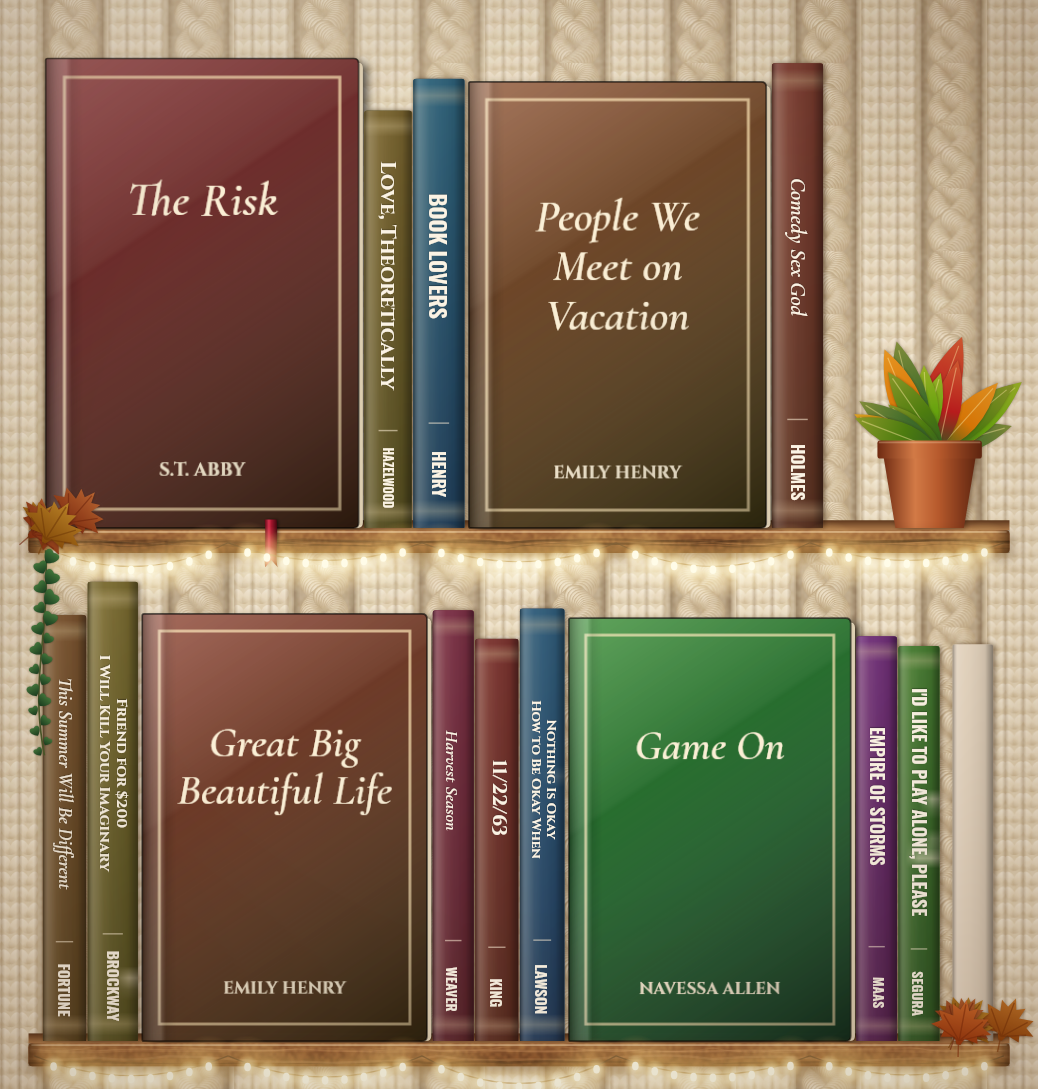
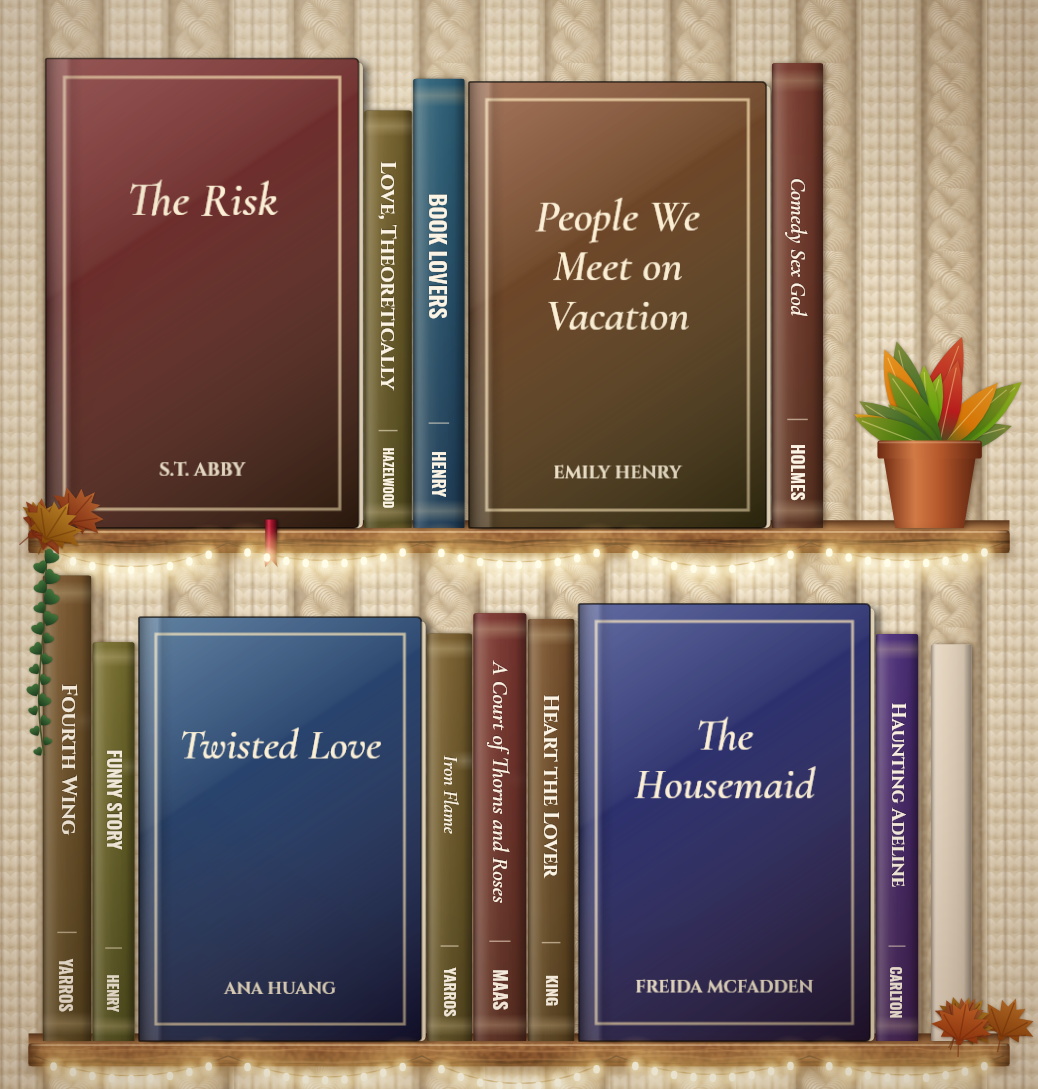
Show the Read and To-read shelves instead of Favorites
Large widgets get one physical shelf per Goodreads shelf (Read on top,
TBR below); small and medium show Read. The Read shelf is ordered by
date finished.

Claude-Session: https://claude.ai/code/session_01DFpaGPqchzARfTBeW4za7c

diff --git a/enchanted-library-widget/EnchantedLibrary.js b/enchanted-library-widget/EnchantedLibrary.js
@@ -18,8 +18,11 @@
 const CONFIG = {
   theme: "cozy",                     // "cozy", "rustic" or "enchanted" (see README)
   goodreadsUserId: "183463841",
-  readingShelf: "currently-reading", // shown face-out with a ribbon bookmark
-  spineShelf: "favorites",           // shown as spines
+  readingShelf: "currently-reading", // shown face-out with a ribbon bookmark ("" to skip)
+  shelves: [                         // Goodreads shelves to show, top to bottom
+    { shelf: "read", label: "Read" },    // newest first; the only shelf on small/medium widgets
+    { shelf: "to-read", label: "TBR" },  // the large widget's second shelf
+  ],
   libraryName: "My Library",         // enchanted: script lettering on the large widget ("" to hide)
   fillEmptySpace: true,              // pad shelves with untitled antique volumes
   showRose: true,                    // enchanted: the rose under glass
@@ -98,16 +101,18 @@ async function loadLibrary() {
     try { cached = JSON.parse(FM.readString(cachePath)); } catch (e) { cached = null; }
   }
   try {
-    const [reading, spines] = await Promise.all([
-      fetchShelf(CONFIG.readingShelf),
-      fetchShelf(CONFIG.spineShelf),
+    const [reading, ...groups] = await Promise.all([
+      CONFIG.readingShelf ? fetchShelf(CONFIG.readingShelf) : [],
+      ...CONFIG.shelves.map(s => fetchShelf(s.shelf)),
     ]);
-    const data = { reading, spines, fetchedAt: Date.now() };
+    const data = { reading, groups, fetchedAt: Date.now() };
     FM.writeString(cachePath, JSON.stringify(data));
     return data;
   } catch (e) {
-    if (cached) return Object.assign(cached, { stale: true });
-    return { reading: [], spines: [], error: String((e && e.message) || e) };
+    if (cached && cached.groups && cached.groups.length === CONFIG.shelves.length) {
+      return Object.assign(cached, { stale: true });
+    }
+    return { reading: [], groups: CONFIG.shelves.map(() => []), error: String((e && e.message) || e) };
   }
 }
 
@@ -137,11 +142,12 @@ function parseFeed(xml) {
         author: get("author_name"),
         cover: bestCoverUrl(large),
         thumb: /nophoto/i.test(small) ? null : small || null,
-        added: Date.parse(get("user_date_added")) || 0,
+        // Most recently finished first (read shelf), else most recently added.
+        when: Date.parse(get("user_read_at")) || Date.parse(get("user_date_added")) || 0,
       };
     })
     .filter(b => b.title)
-    .sort((a, b) => b.added - a.added);
+    .sort((a, b) => b.when - a.when);
 }
 
 function xmlText(block, name) {
@@ -187,10 +193,10 @@ async function imageDataUrl(url, key) {
 
 function buildAccessoryWidget(family, library) {
   const w = new ListWidget();
-  const book = library.reading[0] || library.spines[0];
+  const book = library.reading[0] || (library.groups[0] || [])[0];
   const title = book ? book.title.replace(/\s*\([^)]*#[^)]*\)\s*$/, "") : "No books yet";
   if (family === "accessoryRectangular") {
-    const head = w.addText(library.reading[0] ? "NOW READING" : "FAVORITE");
+    const head = w.addText(library.reading[0] ? "NOW READING" : "LAST READ");
     head.font = Font.semiboldSystemFont(10);
     const t = w.addText(title);
     t.font = Font.boldSystemFont(14);
@@ -232,7 +238,13 @@ async function buildWidget(family, library) {
   const unique = books => books.filter(b => !seen.has(b.id) && seen.add(b.id));
   const reading = unique(library.reading);
   const faceOut = reading.slice(0, maxCovers);
-  const spineBooks = reading.slice(maxCovers).concat(unique(library.spines)).slice(0, 30);
+  // Large widgets get one physical shelf per Goodreads shelf; smaller ones
+  // show just the first.
+  const shown = family === "large" ? CONFIG.shelves.length : 1;
+  const groups = CONFIG.shelves.slice(0, shown).map((s, i) => ({
+    label: s.label,
+    books: (i === 0 ? reading.slice(maxCovers) : []).concat(unique(library.groups[i] || [])).slice(0, 20),
+  }));
 
   const scene = {
     family,
@@ -240,18 +252,22 @@ async function buildWidget(family, library) {
     height: size.height,
     scale: Math.min(3, Device.screenScale()),
     config: CONFIG,
-    note: noteFor(library, faceOut, spineBooks),
+    note: noteFor(library, faceOut, groups),
     covers: [],
-    spines: [],
+    groups: [],
   };
   for (const b of faceOut) {
     scene.covers.push({ id: b.id, title: b.title, author: b.author, src: await imageDataUrl(b.cover, `cover-${b.id}`) });
   }
-  for (const b of spineBooks) {
-    const src = CONFIG.theme === "enchanted"
-      ? await imageDataUrl(b.thumb, `thumb-${b.id}`)
-      : await imageDataUrl(b.cover || b.thumb, `cover-${b.id}`);
-    scene.spines.push({ id: b.id, title: b.title, author: b.author, src });
+  for (const g of groups) {
+    const books = [];
+    for (const b of g.books) {
+      const src = CONFIG.theme === "enchanted"
+        ? await imageDataUrl(b.thumb, `thumb-${b.id}`)
+        : await imageDataUrl(b.cover || b.thumb, `cover-${b.id}`);
+      books.push({ id: b.id, title: b.title, author: b.author, src });
+    }
+    scene.groups.push({ label: g.label, books });
   }
 
   const renderPath = FM.joinPath(CACHE_DIR, `render-${family}.png`);
@@ -277,10 +293,10 @@ async function buildWidget(family, library) {
   return w;
 }
 
-function noteFor(library, covers, spines) {
-  if (covers.length || spines.length) return "";
+function noteFor(library, covers, groups) {
+  if (covers.length || groups.some(g => g.books.length)) return "";
   if (library.error) return "Couldn’t reach Goodreads.\nIs your profile public?";
-  return `No books on “${CONFIG.readingShelf}”\nor “${CONFIG.spineShelf}” yet.`;
+  return `No books on your\n${CONFIG.shelves.map(s => `“${s.shelf}”`).join(" or ")} shelf yet.`;
 }
 
 // Paints the scene in a WebView canvas (Scriptable's own drawing API can't do
@@ -308,7 +324,8 @@ async function paint(scene) {
           img.onerror = () => res(null);
           img.src = src;
         });
-        for (const b of scene.covers.concat(scene.spines)) b.img = await load(b.src);
+        const all = scene.covers.concat(...scene.groups.map(g => g.books));
+        for (const b of all) b.img = await load(b.src);
         const canvas = document.getElementById("c");
         canvas.width = Math.round(scene.width * scene.scale);
         canvas.height = Math.round(scene.height * scene.scale);
@@ -1648,8 +1665,8 @@ function renderLibrary(canvas, scene, makeCanvas) {
     const slot = (H - topPad - bottomPad) / shelves;
     const x0 = (scene.family === "small" ? 7 : 10) * u, x1 = W - x0;
 
-    const seq = scene.covers.map(b => ({ kind: "cover", b, ribbon: true }));
-    scene.spines.forEach((b, i) => seq.push({ kind: b.img && i % 4 === 2 ? "cover" : "spine", b }));
+    const arrange = books => books.map((b, i) => ({ kind: b.img && i % 4 === 2 ? "cover" : "spine", b }));
+    let seq = [];
 
     const after = [];
     for (let s = 0; s < shelves; s++) {
@@ -1657,6 +1674,8 @@ function renderLibrary(canvas, scene, makeCanvas) {
       const plankY = slotTop + slot;
       const baseY = plankY - 0.8 * u;
       const maxH = baseY - slotTop - (s === 0 ? 4 : 12) * u;
+      if (s < scene.groups.length) seq = arrange(scene.groups[s].books);
+      if (s === 0) seq = scene.covers.map(b => ({ kind: "cover", b, ribbon: true })).concat(seq);
 
       shelfTop(x0, x1, plankY);
 
@@ -2038,7 +2057,7 @@ function renderLibrary(canvas, scene, makeCanvas) {
     const slot = (H - topPad - bottomPad) / shelves;
     const x0 = 0, x1 = W;
 
-    const queue = scene.spines.slice();
+    let queue = [];
     const covers = scene.covers.slice();
     const groups = ["spines", "stack", "spines", "cover"];
     let g = 0;
@@ -2047,7 +2066,8 @@ function renderLibrary(canvas, scene, makeCanvas) {
       const plankY = topPad + (s + 1) * slot;
       const baseY = plankY - 1 * u;
       const maxH = baseY - (topPad + s * slot) - (s === 0 ? 4 : 10) * u;
-      const label = s === 0 && covers.length ? cfg.readingShelf : cfg.spineShelf;
+      if (s < scene.groups.length) queue = scene.groups[s].books.slice();
+      const label = scene.groups.length ? scene.groups[Math.min(s, scene.groups.length - 1)].label : "";
 
       slimShelf(x0, x1, plankY, th);
 
@@ -2138,7 +2158,7 @@ function renderLibrary(canvas, scene, makeCanvas) {
       }
 
       decor.forEach(d => d());
-      if (cfg.showLabels !== false) brassPlaque(8 * u, plankY + 1 * u, shelfLabel(label));
+      if (cfg.showLabels !== false && label) brassPlaque(8 * u, plankY + 1 * u, shelfLabel(label));
     }
 
     const v = ctx.createRadialGradient(W / 2, H * 0.45, Math.min(W, H) * 0.35, W / 2, H * 0.5, Math.max(W, H) * 0.85);
@@ -2153,7 +2173,7 @@ function renderLibrary(canvas, scene, makeCanvas) {
   backWall();
 
   const covers = scene.covers.slice();
-  const spines = scene.spines.map(b => ({ ...b, color: leatherFrom(b.img, b.id + b.title) }));
+  let spines = [];
   const ribbons = [];
   const lastShelf = L.shelves - 1;
 
@@ -2162,6 +2182,9 @@ function renderLibrary(canvas, scene, makeCanvas) {
     const plankY = slotTop + slotH - plank;
     const baseY = plankY - 1 * u;
     const maxH = baseY - slotTop - 7 * u;
+    if (s < scene.groups.length) {
+      spines = scene.groups[s].books.map(b => ({ ...b, color: leatherFrom(b.img, b.id + b.title) }));
+    }
 
     // Shadow under the shelf above (or the crown).
     const sg = ctx.createLinearGradient(0, slotTop, 0, slotTop + 18 * u);

diff --git a/enchanted-library-widget/tools/preview.js b/enchanted-library-widget/tools/preview.js
@@ -30,7 +30,7 @@ const CONFIG = {
   theme: process.env.THEME || "cozy", libraryName: "My Library", fillEmptySpace: true,
   showRose: true, showCandle: true, showPlant: true, showLights: true, showLeaves: true,
   showLamp: true, showClock: true, showLabels: true,
-  readingShelf: "currently-reading", spineShelf: "favorites",
+  readingShelf: "currently-reading",
 };
 
 function stubCover(book, i) {
@@ -74,11 +74,15 @@ function render(family, outDir, note) {
   const canvas = createCanvas(width * scale, height * scale);
   const reading = note ? [] : sampleBooks.reading.map((b, i) => ({ ...b, img: covers[b.id] || stubCover(b, i) }));
   const max = { small: 1, medium: 2, large: 3 }[family];
-  const favs = note ? [] : sampleBooks.favorites.map((b, i) => ({ ...b, img: covers[b.id] || stubCover(b, i) }));
+  const withImg = books => (note ? [] : books.map((b, i) => ({ ...b, img: covers[b.id] || stubCover(b, i) })));
+  const groups = [
+    { label: "Read", books: reading.slice(max).concat(withImg(sampleBooks.read)) },
+    { label: "TBR", books: withImg(sampleBooks.toRead) },
+  ].slice(0, family === "large" ? 2 : 1);
   const scene = {
     family, width, height, scale, config: CONFIG, note: note || "",
     covers: reading.slice(0, max),
-    spines: reading.slice(max).concat(favs),
+    groups,
   };
   renderLibrary(canvas, scene, (w, h) => createCanvas(w, h));
   const out = path.join(outDir, `preview-${family}${note ? "-error" : ""}.png`);

diff --git a/enchanted-library-widget/tools/sample-feed.js b/enchanted-library-widget/tools/sample-feed.js
@@ -6,7 +6,7 @@ const sampleBooks = {
   reading: [
     book(33131867, "The Risk (Mindf*ck, #1)", "S.T. Abby", 355),
   ],
-  favorites: [
+  read: [
     book("r1", "Love, Theoretically", "Ali Hazelwood", 40),
     book("r2", "Book Lovers", "Emily Henry", 195),
     book("r3", "People We Meet on Vacation", "Emily Henry", 20),
@@ -20,6 +20,17 @@ const sampleBooks = {
     book("r11", "Game On (Into Darkness, #3)", "Navessa Allen", 120),
     book("r12", "Empire of Storms (Throne of Glass, #5)", "Sarah J. Maas", 290),
     book("r13", "I'd Like to Play Alone, Please: Essays", "Tom Segura", 100),
+  ],
+  // Placeholder to-read shelf.
+  toRead: [
+    book("t1", "Fourth Wing (The Empyrean, #1)", "Rebecca Yarros", 28),
+    book("t2", "Funny Story", "Emily Henry", 50),
+    book("t3", "Twisted Love (Twisted, #1)", "Ana Huang", 210),
+    book("t4", "Iron Flame (The Empyrean, #2)", "Rebecca Yarros", 35),
+    book("t5", "A Court of Thorns and Roses", "Sarah J. Maas", 0),
+    book("t6", "Heart the Lover", "Lily King", 25),
+    book("t7", "The Housemaid", "Freida McFadden", 230),
+    book("t8", "Haunting Adeline", "H.D. Carlton", 260),
   ],
 };
 

diff --git a/enchanted-library-widget/README.md b/enchanted-library-widget/README.md
@@ -9,7 +9,8 @@ An iPhone home-screen widget for the [Scriptable](https://scriptable.app) app th
 Either way:
 
 - **Currently reading:** cover facing out, with a red ribbon bookmark
-- **Your other shelf** (`favorites` by default): spines with the title and author, mixed with face-out covers (and stacks, in the rustic look)
+- **Read:** your most recently finished books, as spines with the title and author, mixed with face-out covers (and stacks, in the rustic look)
+- **To-read (TBR):** a second shelf of books on the large widget. Small and medium widgets show only Read.
 - Leftover space fills with a stack of books and some untitled volumes
 
 | Small | Medium | Large |
@@ -25,7 +26,7 @@ Enchanted look: ![enchanted](previews/preview-enchanted-medium.png)
 ## Install on your iPhone
 
 1. **Make your Goodreads shelves public.** Goodreads retired its API, so the widget reads your shelves' public RSS feeds. In the Goodreads app or website, go to *Settings → Privacy* and set **Who can view my profile** to *anyone* (or *anyone including search engines*).
-2. **Check your favorites shelf name.** The widget reads the shelf named `favorites`. If yours is named something else (e.g. `all-time-favorites`), change `spineShelf` near the top of the script.
+2. **Check your shelves.** The widget reads your `currently-reading`, `read` and `to-read` shelves, which every Goodreads account has. To show a different shelf, such as your own `favorites` shelf, change `shelves` near the top of the script.
 3. Install **Scriptable** (free) from the App Store.
 4. Copy the entire contents of [`EnchantedLibrary.js`](EnchantedLibrary.js). Open Scriptable, tap **+**, paste, and rename the script to *Enchanted Library* by tapping the title.
 5. Tap ▶ to try it. Pick a size to preview. The first run downloads your covers.
@@ -42,8 +43,8 @@ Edit the `CONFIG` block at the top of the script:
 |---|---|
 | `theme` | `"cozy"`, `"rustic"` or `"enchanted"` |
 | `goodreadsUserId` | The number in your profile URL (`183463841`) |
-| `readingShelf` | Shelf shown face-out with ribbons (`currently-reading`) |
-| `spineShelf` | Shelf shown as spines (`favorites`) |
+| `readingShelf` | Shelf shown face-out with ribbons, at the front of the top shelf (`currently-reading`; `""` to skip) |
+| `shelves` | Shelves to show, top to bottom, each with the label shown on its brass plaque in the rustic look (`read` labeled "Read", then `to-read` labeled "TBR"). Large widgets show one shelf of books per entry; small and medium show only the first. |
 | `libraryName` | Enchanted only: script lettering on the large widget's crown (`"My Library"`) |
 | `fillEmptySpace` | `false` leaves empty shelf space instead of antique filler books |
 | `showRose`, `showCandle` | Enchanted only: `false` hides the rose or the candlestick |
@@ -55,8 +56,8 @@ To force a re-download (for example, after you change a cover on Goodreads), run
 
 ## Troubleshooting
 
-- **"Couldn't reach Goodreads. Is your profile public?"** Make your profile public (step 1). Also check that `https://www.goodreads.com/review/list_rss/183463841?shelf=favorites` opens in Safari.
-- **No spines:** the `favorites` shelf is empty or has a different name (step 2).
+- **"Couldn't reach Goodreads. Is your profile public?"** Make your profile public (step 1). Also check that `https://www.goodreads.com/review/list_rss/183463841?shelf=read` opens in Safari.
+- **No spines:** the shelves named in `shelves` are empty or named differently (step 2).
 - **"Open Scriptable and run Enchanted Library once":** the widget couldn't paint the scene itself and had no saved picture yet. Run the script once in the Scriptable app. That saves pictures of every size for the widget to fall back on.
 - **Plain-looking lettering:** the fonts (Cinzel, Cormorant Garamond, Oswald, Pinyon Script) load from Google Fonts. Without internet access the widget uses the iPhone's built-in fonts instead.
 - **Lock screen:** the script also works as a lock-screen widget. It shows the title of the book you're reading as text.
